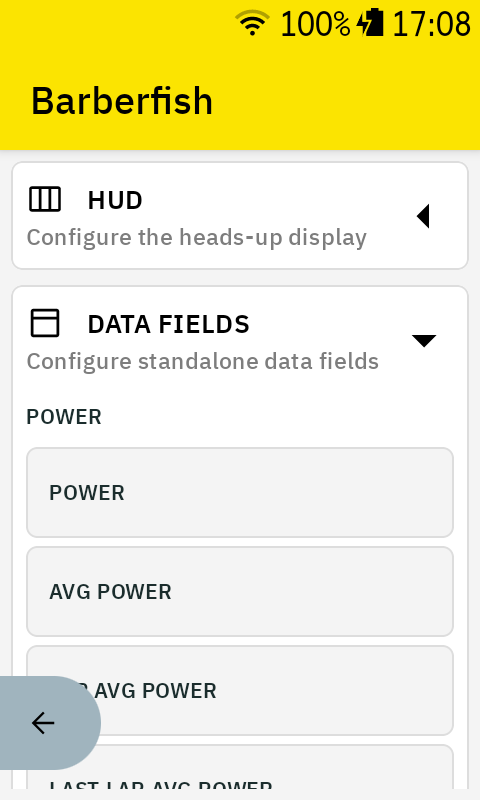
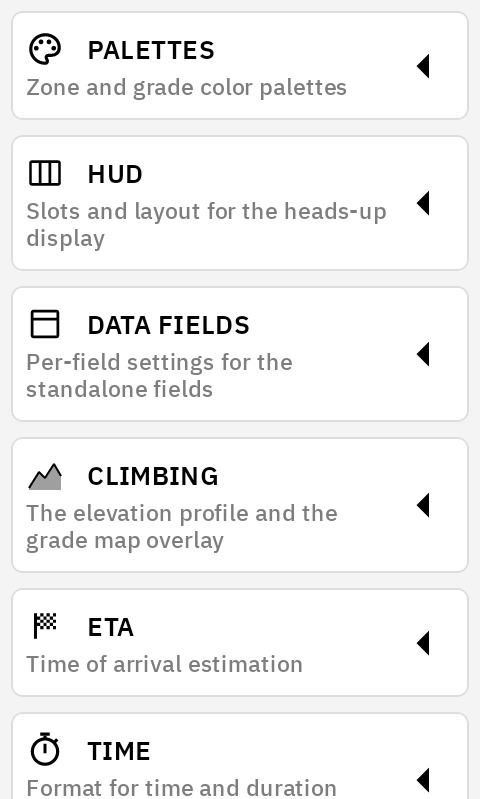
docs: render config shots, swap threshold for palettes in gallery

diff --git a/docs/gallery.md b/docs/gallery.md
@@ -71,10 +71,10 @@ Light and dark mode are both supported, with [each palette tuned per theme](colo
 <table>
   <tr>
     <td align="center">Data field configuration grouped by category</td>
-    <td align="center">Average speed with target-mode threshold, text coloring above target</td>
+    <td align="center">Palette pickers with live previews</td>
   </tr>
   <tr>
-    <td align="center"><img src="screenshots/config.jpg" alt="Main Barberfish config screen with HUD and Data Fields sections"></td>
-    <td align="center"><img src="screenshots/threshold_config.jpg" alt="Avg Speed threshold config with text-mode green above-target coloring"></td>
+    <td align="center"><img src="screenshots/config.jpg" alt="Main Barberfish config screen with its seven collapsed sections"></td>
+    <td align="center"><img src="screenshots/palette_config.jpg" alt="Palettes section with power, HR, and grade palette pickers and their previews"></td>
   </tr>
 </table>
